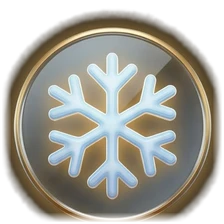
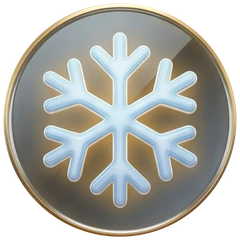
Clean snowflake medallion and keep the booking date field inside its card
- Re-cut the snowflake as an exact anti-aliased circle from the original
  mockup, dropping the baked-in glow that showed a square halo; the glow
  is now a CSS drop-shadow
- Date input: block, min-width 0, fixed height and left-aligned value so
  iOS Safari no longer stretches it past the booking card

Claude-Session: https://claude.ai/code/session_01CFyG72NDChAdZMkJjFtXtd

diff --git a/src/components/tours/BookingWidget.tsx b/src/components/tours/BookingWidget.tsx
@@ -514,8 +514,15 @@ export default function BookingWidget({ tour }: Props) {
             setDate(e.target.value);
             setValidationError("");
           }}
-          className="w-full rounded-2xl px-4 py-3 text-sm text-white focus:outline-none transition-colors"
-          style={{ backgroundColor: "rgba(0,0,0,0.25)", border: "1.5px solid rgba(200,155,60,0.45)", colorScheme: "dark" }}
+          className="booking-date block w-full min-w-0 max-w-full h-12 rounded-2xl px-4 text-[15px] text-white focus:outline-none transition-colors"
+          style={{
+            backgroundColor: "rgba(0,0,0,0.25)",
+            border: "1.5px solid rgba(200,155,60,0.45)",
+            colorScheme: "dark",
+            boxSizing: "border-box",
+            WebkitAppearance: "none",
+            appearance: "none",
+          }}
         />
       </div>
 

diff --git a/src/app/globals.css b/src/app/globals.css
@@ -121,3 +121,17 @@ input[type="date"]::-webkit-calendar-picker-indicator {
     animation: none;
   }
 }
+
+/* iOS Safari gives date inputs an intrinsic min-width and centred text,
+   which makes the booking date field overflow its card. */
+input.booking-date {
+  min-width: 0;
+  line-height: 3rem;
+}
+input.booking-date::-webkit-date-and-time-value {
+  text-align: left;
+  margin: 0;
+}
+input.booking-date::-webkit-calendar-picker-indicator {
+  opacity: 0.85;
+}
